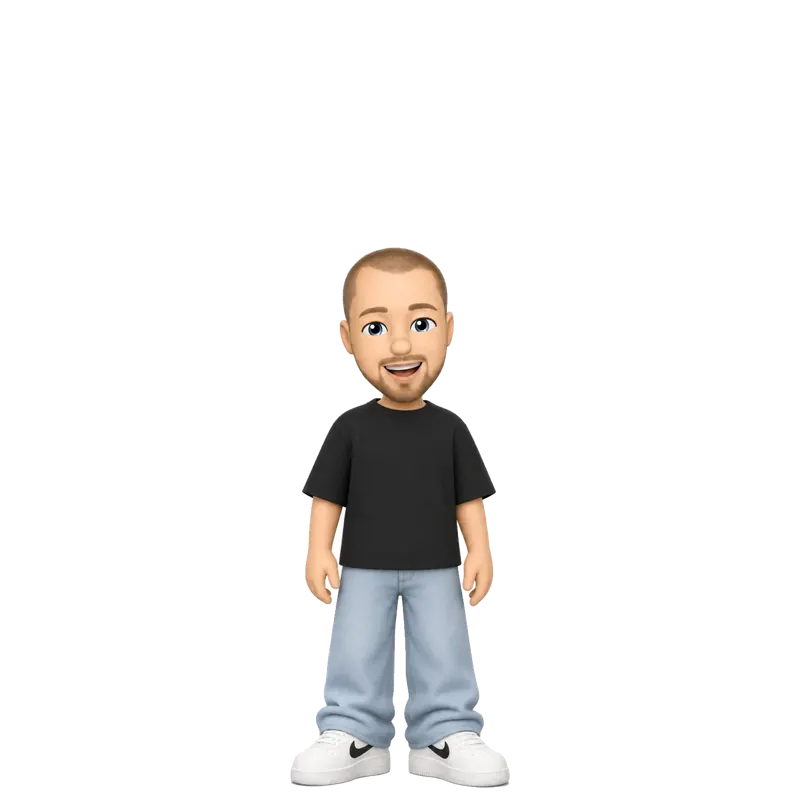
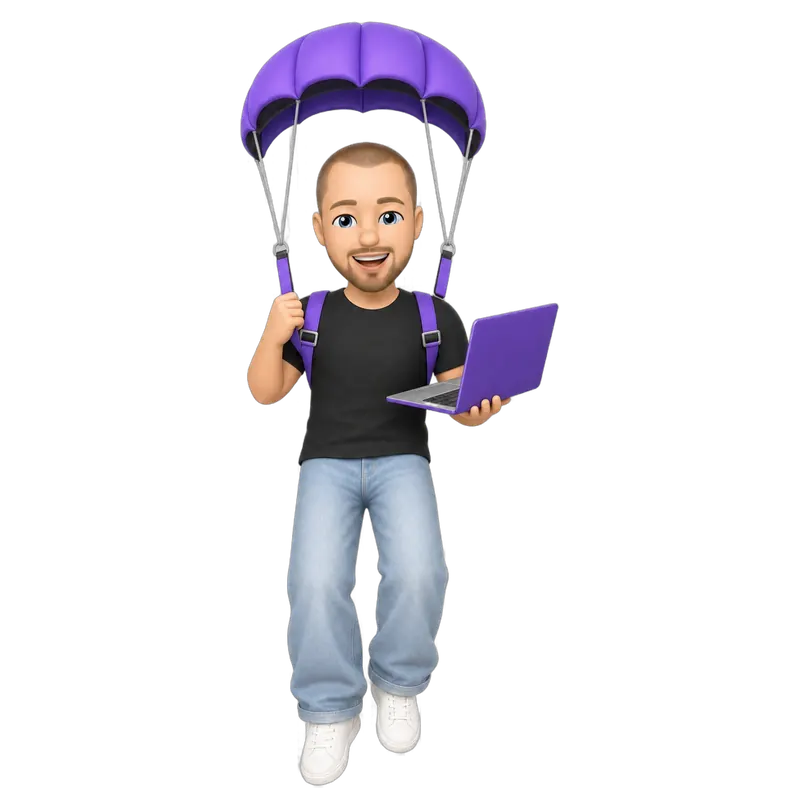
Lead-agenten får memojien med faldskærmen
Claude-Session: https://claude.ai/code/session_01DV36HvMiqGtQqQ434HJUzF

Changed region(s): [[0.2812, 0.0, 0.7188, 1.0]]

diff --git a/site/index.html b/site/index.html
@@ -69,7 +69,7 @@
             <p class="scene-text">Hver uge får I at vide, hvilke Meta-annoncer der tjener penge, og hvilke der brænder dem af.</p>
           </div>
           <div class="scene-item" id="vis-lead" hidden>
-            <span class="scene-fig"><img class="scene-img" src="/assets/memoji/landingpage.webp" alt="Kasper som memoji i sort t-shirt, smilende" width="800" height="800" loading="lazy"></span>
+            <span class="scene-fig"><img class="scene-img" src="/assets/memoji/landingpage.webp" alt="Kasper som memoji, der svæver ned i en lilla faldskærm med en bærbar computer i hånden" width="800" height="800" loading="lazy"></span>
             <p class="scene-title">Lead-agenten</p>
             <p class="scene-text">Jeres landingpage får de besøgende til at skrive sig op, og agenten følger op på hvert lead, før det når at blive koldt.</p>
           </div>

diff --git a/site/assets/README.md b/site/assets/README.md
@@ -7,4 +7,4 @@ Billederne til siden:
 - favicon.svg og apple-touch-icon.png: memojiens hoved på lilla gradient, bruges som ikon i fanen og ved navnet i toppen
 - jer.svg: neutral avatar for virksomheden (bruges ikke længere, chatvinduet er fjernet)
 - kasper.jpg: rigtigt foto til "Om mig"
-- memoji/: memojien i fem situationer til agenterne i toppen, hver med et lille hoved til baren. landingpage.webp er en pladsholder, indtil billedet med faldskærmen kommer.
+- memoji/: memojien i fem situationer til agenterne i toppen, hver med et lille hoved til baren. landingpage.webp er Lead-agenten med faldskærmen.

diff --git a/docs/plan-hero-vaelger.md b/docs/plan-hero-vaelger.md
@@ -2,8 +2,6 @@
 
 Status: færdig. Den nye hero er flyttet ind på forsiden (site/index.html), testsiden er slettet, og sektionen "Tre ting, jeg tager ansvar for" er fjernet. De gældende tekster står i docs/copy.md. Planen herunder er gemt som baggrund.
 
-Mangler: billedet til Lead-agenten (faldskærmen). Indtil det kommer, bruges den almindelige memoji som pladsholder.
-
 ## 1. Hvad videoen gør
 
 Videoen er 8 sekunder og viser én skærm, der fungerer sådan her:
